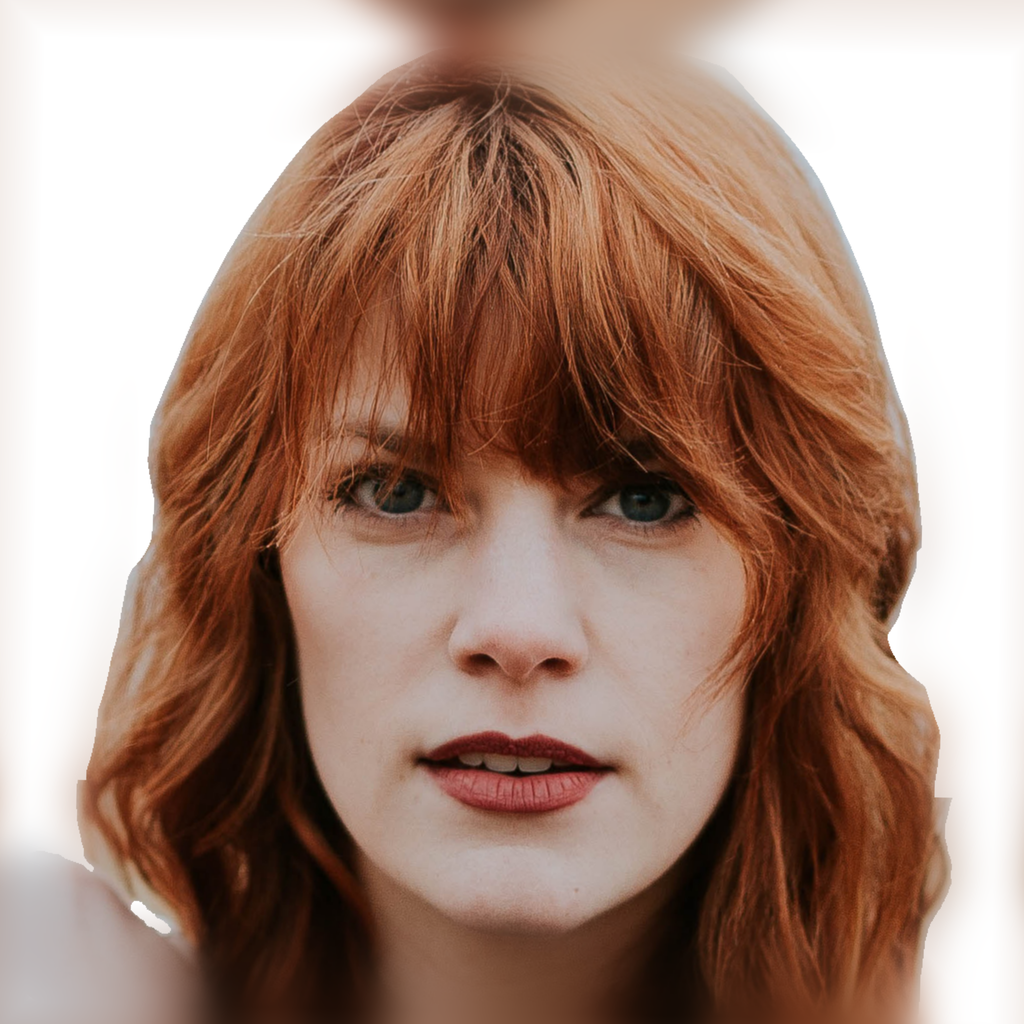
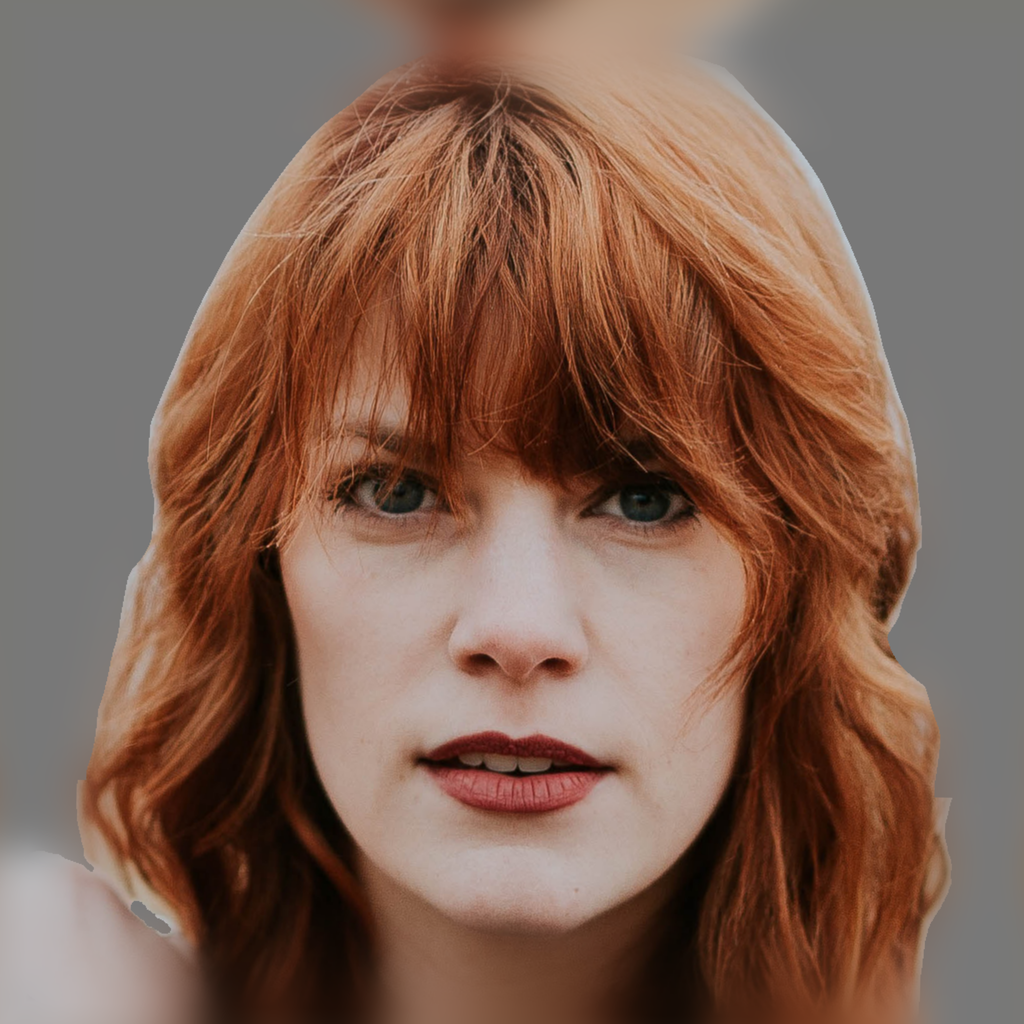
Added overwrite stopper

diff --git a/align_face.py b/align_face.py
@@ -5,6 +5,7 @@ import torchvision
 from utils.drive import open_url
 from utils.shape_predictor import align_face
 import PIL
+import os
 
 parser = argparse.ArgumentParser(description='Align_face')
 
@@ -14,6 +15,7 @@ parser.add_argument('-output_dir', type=str, default='input/face', help='output 
 parser.add_argument('-output_size', type=int, default=1024, help='size to downscale the input images to, must be power of 2')
 parser.add_argument('-seed', type=int, help='manual seed to use')
 parser.add_argument('-cache_dir', type=str, default='cache', help='cache directory for model weights')
+parser.add_argument('--overwrite', action='store_true', default=False, help='Whether to overwrite')
 
 ###############
 parser.add_argument('-inter_method', type=str, default='bicubic')
@@ -34,8 +36,15 @@ f=open_url("https://drive.google.com/uc?id=1huhv8PYpNNKbGCLOaYUjOgR1pY5pmbJx", c
 print(f)
 predictor = dlib.shape_predictor(f)
 
+already_exists = [x.split(".")[0] for x in os.listdir(args.output_dir)]
+
 for im in Path(args.unprocessed_dir).glob("*.*"):
-    if str(im).split(".")[-1] not in accepted_format:
+    str_path = str(im)
+    base_name_split = os.path.basename(str_path).split(".")
+    if base_name_split[-1] not in accepted_format:
+        continue
+    if not args.overwrite and base_name_split[0] in already_exists:
+        print(f"Skipping {base_name_split[0]}, already exists")
         continue
     
     faces = align_face(str(im),predictor)

diff --git a/utils/shape_predictor.py b/utils/shape_predictor.py
@@ -126,7 +126,7 @@ def align_face(filepath,predictor):
         # read image
         img = PIL.Image.open(filepath)
         cleared_img = np.array(img)
-        cleared_img[total_mask != 1, :] = np.array([255,255,255])
+        cleared_img[total_mask != 1, :] = np.array([120,120,120])
         img = PIL.Image.fromarray(cleared_img)
         
         output_size = 1024
